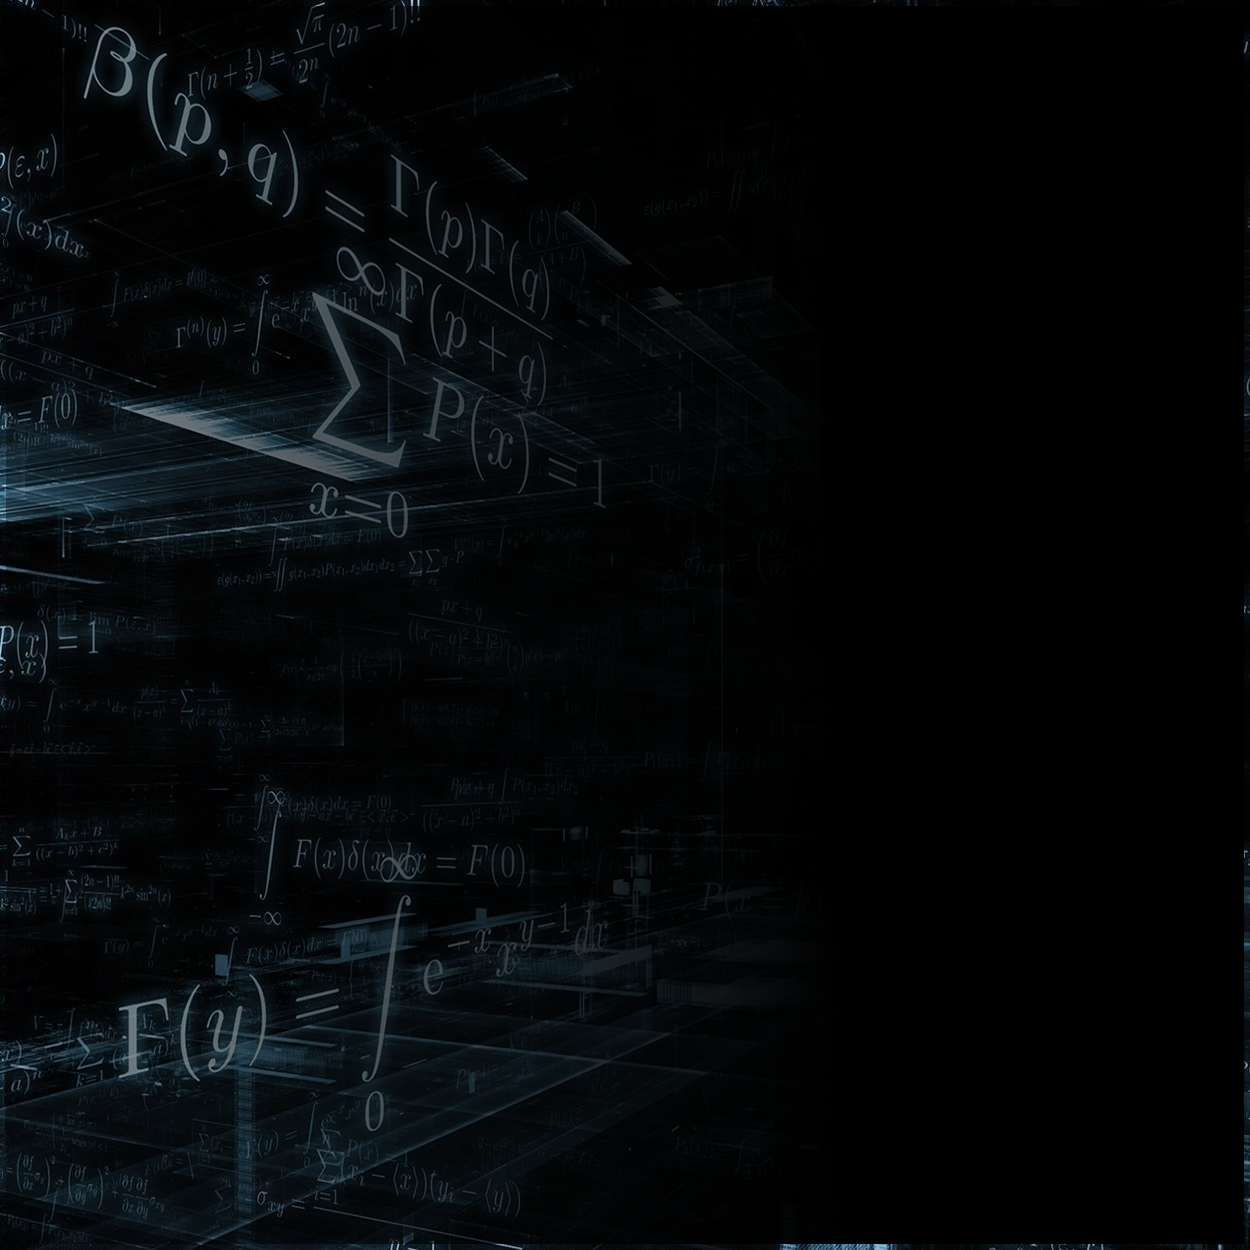
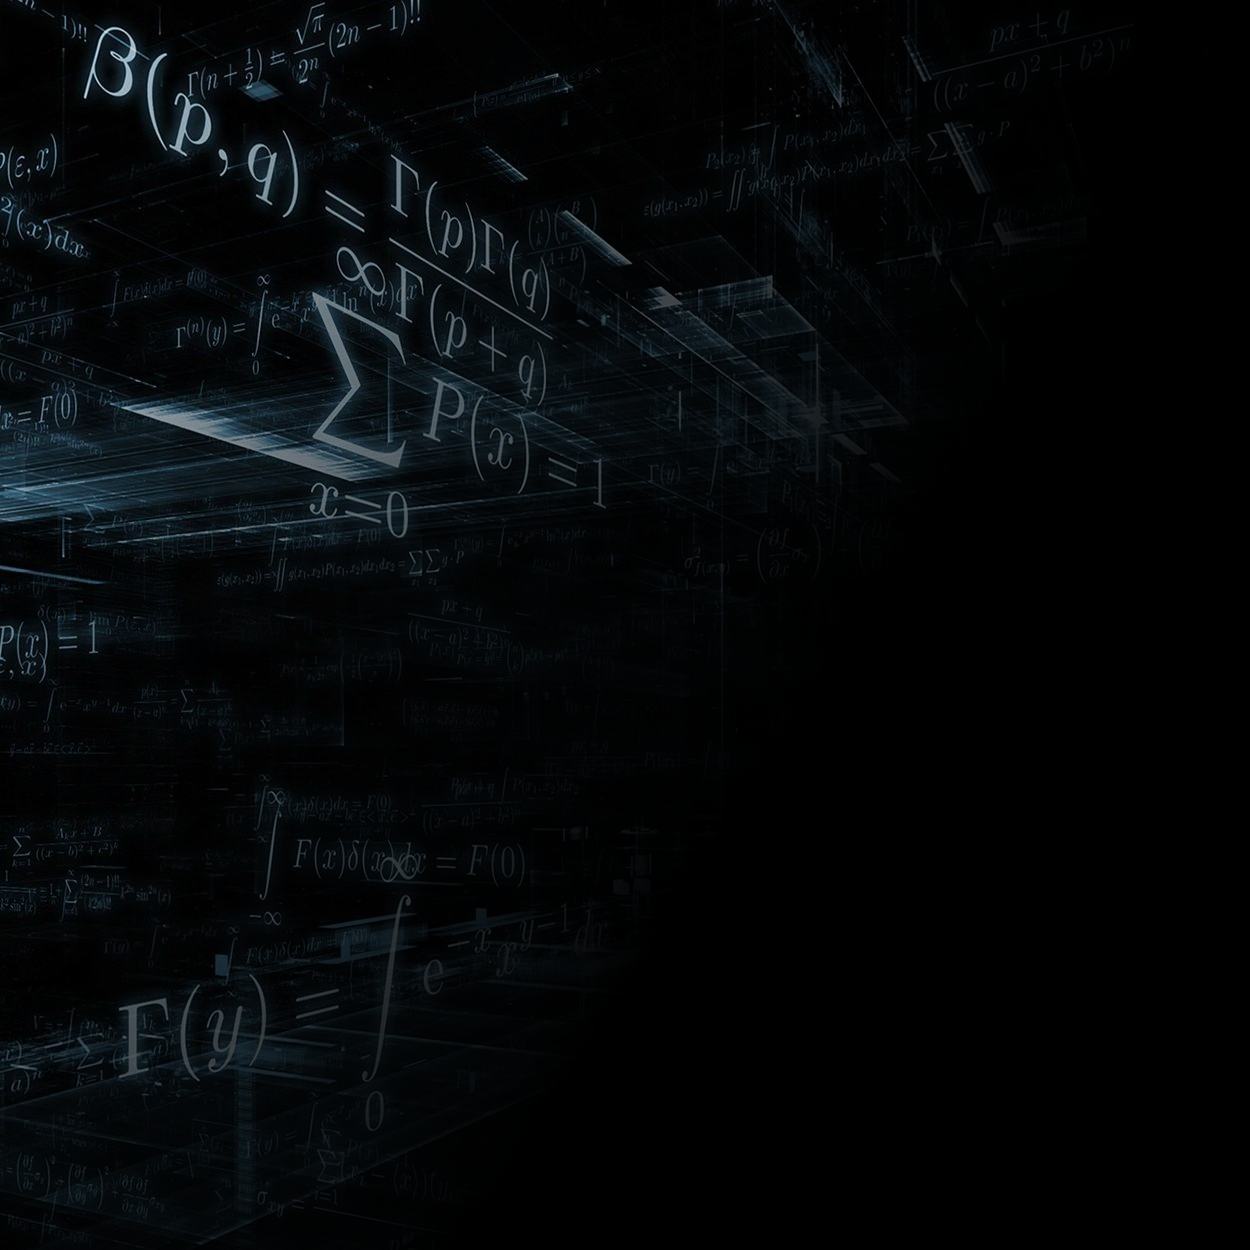
modified background and main.css to solve scroll grey bar issue

diff --git a/assets/css/main.css b/assets/css/main.css
@@ -2464,7 +2464,7 @@
 /* Header */
 
 	#header {
-		background-color: #1f1815;
+		background-color: #000000; /*#1f1815;*/
 		background-attachment: scroll,								fixed;
 		background-image: url("images/overlay.png"), url("../../images/bg.jpg");
 		background-position: top left,							top left;
